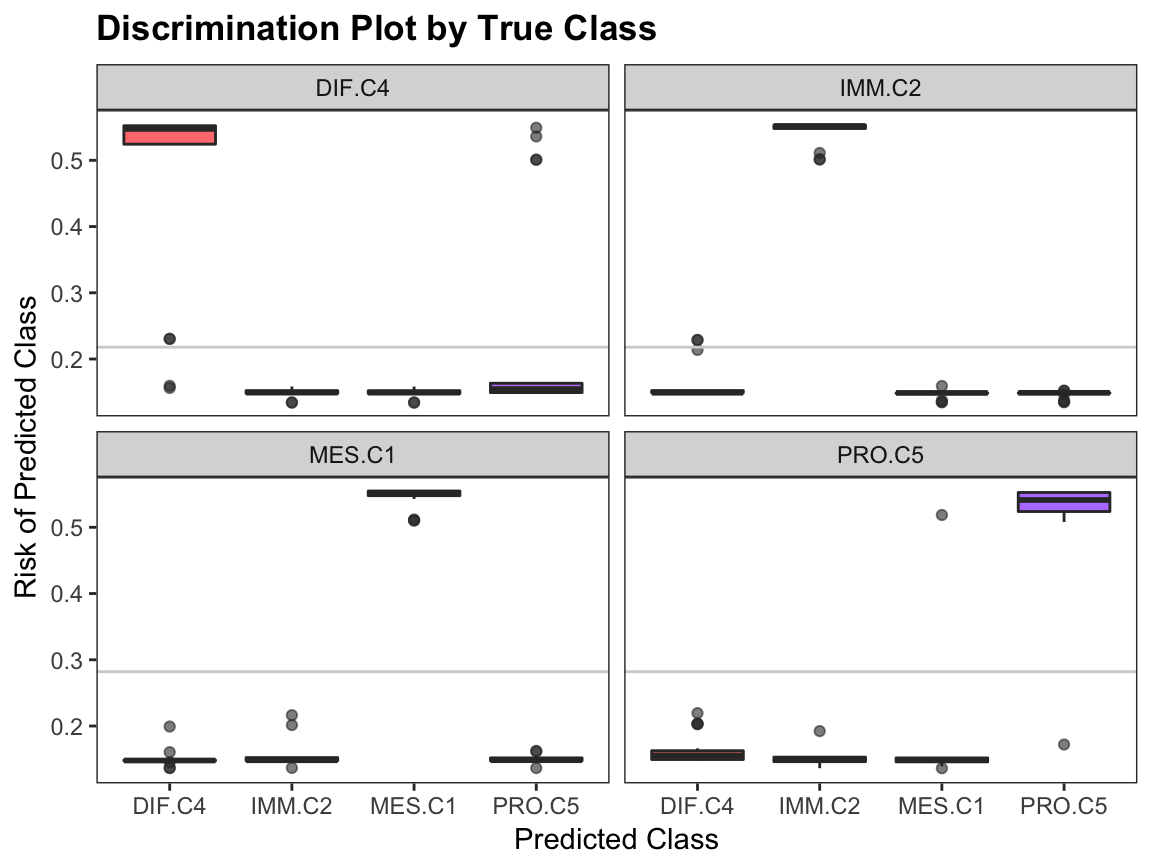
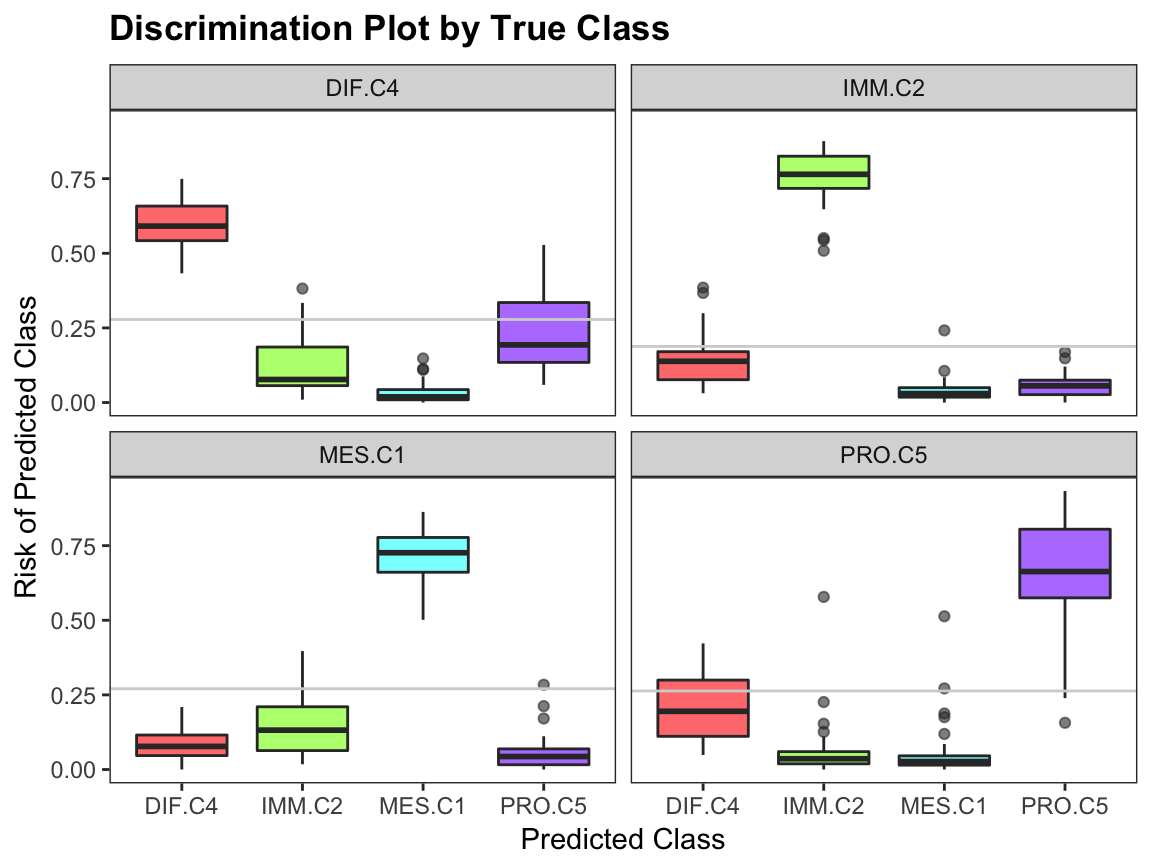
update vignette about prediction attributes

diff --git a/docs/articles/ensemble_classification.html b/docs/articles/ensemble_classification.html
@@ -58,7 +58,7 @@
 </h1>
                         <h4 class="author">Derek Chiu</h4>
             
-            <h4 class="date">2017-05-15</h4>
+            <h4 class="date">2017-05-16</h4>
           </div>
 
     
@@ -99,7 +99,7 @@
 <span class="co">#&gt; DIF.C4 IMM.C2 MES.C1 PRO.C5 </span>
 <span class="co">#&gt;    135    107    109    138</span>
 sl_result &lt;-<span class="st"> </span><span class="kw"><a href="../reference/splendid.html">splendid</a></span>(<span class="dt">data =</span> hgsc, <span class="dt">class =</span> class, <span class="dt">n =</span> <span class="dv">2</span>,
-                      <span class="dt">algorithms =</span> <span class="kw">c</span>(<span class="st">"lda"</span>, <span class="st">"knn"</span>, <span class="st">"svm"</span>), <span class="dt">rfe =</span> <span class="ot">FALSE</span>)</code></pre></div>
+                      <span class="dt">algorithms =</span> <span class="kw">c</span>(<span class="st">"slda"</span>, <span class="st">"knn"</span>, <span class="st">"svm"</span>), <span class="dt">rfe =</span> <span class="ot">FALSE</span>)</code></pre></div>
 <p>The resulting object is a list with the following elements:</p>
 <ul>
 <li>
@@ -118,17 +118,17 @@ sl_result &lt;-<span class="st"> </span><span class="kw"><a href="../reference/s
 <div class="sourceCode"><pre class="sourceCode r"><code class="sourceCode r"><span class="kw">str</span>(sl_result, <span class="dt">max.level =</span> <span class="dv">2</span>)
 <span class="co">#&gt; List of 6</span>
 <span class="co">#&gt;  $ models       :List of 3</span>
-<span class="co">#&gt;   ..$ lda:List of 2</span>
-<span class="co">#&gt;   ..$ knn:List of 2</span>
-<span class="co">#&gt;   ..$ svm:List of 2</span>
+<span class="co">#&gt;   ..$ slda:List of 2</span>
+<span class="co">#&gt;   ..$ knn :List of 2</span>
+<span class="co">#&gt;   ..$ svm :List of 2</span>
 <span class="co">#&gt;  $ preds        :List of 3</span>
-<span class="co">#&gt;   ..$ lda:List of 2</span>
-<span class="co">#&gt;   ..$ knn:List of 2</span>
-<span class="co">#&gt;   ..$ svm:List of 2</span>
+<span class="co">#&gt;   ..$ slda:List of 2</span>
+<span class="co">#&gt;   ..$ knn :List of 2</span>
+<span class="co">#&gt;   ..$ svm :List of 2</span>
 <span class="co">#&gt;  $ evals        :List of 3</span>
-<span class="co">#&gt;   ..$ lda:'data.frame':  24 obs. of  2 variables:</span>
-<span class="co">#&gt;   ..$ knn:'data.frame':  24 obs. of  2 variables:</span>
-<span class="co">#&gt;   ..$ svm:'data.frame':  24 obs. of  2 variables:</span>
+<span class="co">#&gt;   ..$ slda:'data.frame': 24 obs. of  2 variables:</span>
+<span class="co">#&gt;   ..$ knn :'data.frame': 24 obs. of  2 variables:</span>
+<span class="co">#&gt;   ..$ svm :'data.frame': 24 obs. of  2 variables:</span>
 <span class="co">#&gt;  $ bests        : Named chr [1:2] "svm" "svm"</span>
 <span class="co">#&gt;   ..- attr(*, "names")= chr [1:2] "1" "2"</span>
 <span class="co">#&gt;  $ ensemble_algs: chr "svm"</span>
@@ -147,9 +147,9 @@ sl_result &lt;-<span class="st"> </span><span class="kw"><a href="../reference/s
 <ul>
 <li>Linear Discriminant Analysis (<code>"lda"</code>)</li>
 <li>Quadratic Discriminant Analysis (<code>"qda"</code>)</li>
-<li>Shrinkage Linear Discriminant Analysis (<code>"slda"</code>)<sup>3</sup>
+<li>Shrinkage Linear Discriminant Analysis (<code>"slda"</code>)<sup>1</sup>
 </li>
-<li>Shrinkage Diagonal Discriminant Analysis (<code>"sdda"</code>)<sup>3</sup>
+<li>Shrinkage Diagonal Discriminant Analysis (<code>"sdda"</code>)<sup>1</sup>
 </li>
 <li>Random Forests (<code>"rf"</code>)</li>
 <li>Multinomial Classification using neural networks (<code>"multinom_nnet"</code>)</li>
@@ -160,7 +160,8 @@ sl_result &lt;-<span class="st"> </span><span class="kw"><a href="../reference/s
 <li>Adaptive Boosting using Decision Trees (<code>"adaboost"</code>)</li>
 <li>Extreme Gradient Boosting using Decision Trees (<code>"xgboost"</code>)</li>
 <li>Naive Bayes (<code>"nbayes"</code>)</li>
-<li>Multinomial Classification using an L1-penalty (<code>"lasso"</code>), L2-penalty (<code>"ridge"</code>), or no penalty (<code>"multinom_glm"</code>)</li>
+<li>Multinomial Classification using an L1-penalty (<code>"lasso"</code>), L2-penalty (<code>"ridge"</code>), or no penalty (<code>"multinom_glm"</code>)<sup>2</sup>
+</li>
 </ul>
 <p>These algorithms are implemented in <code><a href="../reference/classification.html">classification()</a></code>.</p>
 </div>
@@ -195,6 +196,8 @@ sl_result &lt;-<span class="st"> </span><span class="kw"><a href="../reference/s
 <li>
 <code>qda</code>: The number of variables cannot exceed the number of samples in the smallest class. We use a variance threshold method to select the greatest number of variables allowed by the QDA restriction on the basis of decreasing variance across all samples. This filtering feature selection method does not solve the potential multicollinearity issue that can exist with many correlated variables. To tackle this problem, we add a small amount of noise to each variable.</li>
 <li>
+<code>slda</code> and <code>sdda</code>: These shrinkage discriminant analysis algorithms estimate the regularization parameters analytically without having to solve using resampling methods.</li>
+<li>
 <code>multinom_nnet</code> and <code>nnet</code>: We increase the maximum number of allowable weights to a sufficiently large number to avoid ill-fitted models.</li>
 <li>
 <code>knn</code>: Since K-Nearest Neighbours is a non-parametric method, there <em>is</em> no model object upon which predictions are made, and predicted classes are directly found. To obtain prediction probabilities by class, we use a distance matrix between the training and test set samples.</li>
@@ -207,7 +210,7 @@ sl_result &lt;-<span class="st"> </span><span class="kw"><a href="../reference/s
 <div id="feature-selection" class="section level3">
 <h3 class="hasAnchor">
 <a href="#feature-selection" class="anchor"></a>Feature Selection</h3>
-<p>We use Recursive Feature Elimination (RFE)<sup>1</sup> on <code>lda</code>, <code>qda</code>, <code>rf</code>, and <code>svm</code> to reduce the dimensionality before classification. In <code>svm</code>, we do this before tuning because of the computational complexity. However, we can embed this feature selection within the tuning step for the other three algorithms. Set <code>rfe = TRUE</code> in <code>splendid</code> to use feature selection.</p>
+<p>We use Recursive Feature Elimination (RFE)<sup>3</sup> on <code>lda</code>, <code>qda</code>, <code>rf</code>, and <code>svm</code> to reduce the dimensionality before classification. In <code>svm</code>, we do this before tuning because of the computational complexity. However, we can embed this feature selection within the tuning step for the other three algorithms. Set <code>rfe = TRUE</code> in <code>splendid</code> to use feature selection.</p>
 <p>One limitation of RFE is that an a priori set of feature subset sizes need to be specified, determining the search space for the algorithm. By default, we set the <code>sizes</code> parameter to be every 5 integers from 0 up to one-half of the smallest class size. Recall the class sizes:</p>
 <div class="sourceCode"><pre class="sourceCode r"><code class="sourceCode r"><span class="kw">table</span>(class)
 <span class="co">#&gt; class</span>
@@ -223,18 +226,18 @@ sl_result &lt;-<span class="st"> </span><span class="kw"><a href="../reference/s
 <p>The method for <code>"pam"</code> is an exception: the output from <code><a href="../reference/prediction.html">prediction()</a></code> not only has the predicted class labels, but also the cross-validated threshold value calculated from the training set to use in prediction on the test set, named <code>delta</code>.</p>
 <div class="sourceCode"><pre class="sourceCode r"><code class="sourceCode r"><span class="kw">str</span>(sl_result$preds, <span class="dt">max.level =</span> <span class="dv">2</span>, <span class="dt">list.len =</span> <span class="dv">2</span>)
 <span class="co">#&gt; List of 3</span>
-<span class="co">#&gt;  $ lda:List of 2</span>
-<span class="co">#&gt;   ..$ : Factor w/ 4 levels "DIF.C4","IMM.C2",..: 1 1 2 3 4 1 4 2 1 2 ...</span>
-<span class="co">#&gt;   .. ..- attr(*, "prob")= num [1:189, 1:4] 1.00 1.00 2.11e-307 2.43e-69 1.65e-99 ...</span>
+<span class="co">#&gt;  $ slda:List of 2</span>
+<span class="co">#&gt;   ..$ : Factor w/ 4 levels "DIF.C4","IMM.C2",..: 3 1 3 3 4 2 4 2 4 2 ...</span>
+<span class="co">#&gt;   .. ..- attr(*, "prob")= num [1:189, 1:4] 0.0202 1 0 0 0 ...</span>
 <span class="co">#&gt;   .. .. ..- attr(*, "dimnames")=List of 2</span>
-<span class="co">#&gt;   .. ..- attr(*, "class.thres")= Factor w/ 4 levels "DIF.C4","IMM.C2",..: 1 1 2 3 4 1 4 2 1 2 ...</span>
+<span class="co">#&gt;   .. ..- attr(*, "class.thres")= Factor w/ 4 levels "DIF.C4","IMM.C2",..: 3 1 3 3 4 2 4 2 4 2 ...</span>
 <span class="co">#&gt;   .. ..- attr(*, "class.prop")= num 1</span>
-<span class="co">#&gt;   ..$ : Factor w/ 4 levels "DIF.C4","IMM.C2",..: 2 3 3 1 1 1 2 3 1 2 ...</span>
-<span class="co">#&gt;   .. ..- attr(*, "prob")= num [1:170, 1:4] 0.00 1.10e-310 7.59e-85 1.00 1.00 ...</span>
+<span class="co">#&gt;   ..$ : Factor w/ 4 levels "DIF.C4","IMM.C2",..: 3 4 4 4 1 1 1 1 2 1 ...</span>
+<span class="co">#&gt;   .. ..- attr(*, "prob")= num [1:170, 1:4] 0.000858 0.039292 0 0 0.999683 ...</span>
 <span class="co">#&gt;   .. .. ..- attr(*, "dimnames")=List of 2</span>
-<span class="co">#&gt;   .. ..- attr(*, "class.thres")= Factor w/ 4 levels "DIF.C4","IMM.C2",..: 2 3 3 1 1 1 2 3 1 2 ...</span>
+<span class="co">#&gt;   .. ..- attr(*, "class.thres")= Factor w/ 4 levels "DIF.C4","IMM.C2",..: 3 4 4 4 1 1 1 1 2 1 ...</span>
 <span class="co">#&gt;   .. ..- attr(*, "class.prop")= num 1</span>
-<span class="co">#&gt;  $ knn:List of 2</span>
+<span class="co">#&gt;  $ knn :List of 2</span>
 <span class="co">#&gt;   ..$ : Factor w/ 4 levels "DIF.C4","IMM.C2",..: 4 1 3 3 3 2 4 2 4 2 ...</span>
 <span class="co">#&gt;   .. ..- attr(*, "prob")= num [1:189, 1:4] 0 1 0 0 0 0 0 0 0 0 ...</span>
 <span class="co">#&gt;   .. .. ..- attr(*, "dimnames")=List of 2</span>
@@ -246,7 +249,13 @@ sl_result &lt;-<span class="st"> </span><span class="kw"><a href="../reference/s
 <span class="co">#&gt;   .. ..- attr(*, "class.thres")= Factor w/ 5 levels "DIF.C4","IMM.C2",..: 3 3 4 4 1 1 2 4 1 2 ...</span>
 <span class="co">#&gt;   .. ..- attr(*, "class.prop")= num 0.988</span>
 <span class="co">#&gt;   [list output truncated]</span></code></pre></div>
-<p>Note that each predicted class has an attribute that shows the class probabilities in a matrix. These matrices are useful to compute evaluation measures and generate discriminating graphs that we detail below.</p>
+<div id="attributes" class="section level3">
+<h3 class="hasAnchor">
+<a href="#attributes" class="anchor"></a>Attributes</h3>
+<p>Note that each predicted class has an attribute that shows the class probabilities in a matrix. We ensure that the class probabilities for every sample sum to one by making a small adjustment to one of the classes depending on whether the probability was over or under one. These matrices are useful to compute evaluation measures and generate discriminating graphs that we detail below, and is stored in <code>attr(*, "prob")</code>.</p>
+<p>To obtain better performance under evaluation metrics, we may want to exclude samples which have a maximum class probability below a threshold. For example, we may only compare the true test labels with the corresponding OOB samples where the winning class has a probability at least 50%. Samples below this threshold are labelled as <code>"unclassified"</code>. If the threshold results in all samples being unclassified, then we use the unfiltered, original predicted labels for evaluation. This object is stored in <code>attr(*, "class.thres")</code>.</p>
+<p>The final attribute of a prediction object is stored <code>attr(*, "class.prop")</code>, showing the proportion of classified cases. This value is inversely proportional to the <code>threshold</code> setting.</p>
+</div>
 </div>
 <div id="evaluation" class="section level2">
 <h2 class="hasAnchor">
@@ -414,7 +423,7 @@ class &lt;-<span class="st"> </span><span class="kw">factor</span>(stringr::<spa
 <span class="kw">set.seed</span>(<span class="dv">1</span>)
 training.id &lt;-<span class="st"> </span><span class="kw">sample</span>(<span class="kw">seq_along</span>(class), <span class="dt">replace =</span> <span class="ot">TRUE</span>)
 test.id &lt;-<span class="st"> </span><span class="kw">which</span>(!<span class="kw">seq_along</span>(class) %in%<span class="st"> </span>training.id)
-mod &lt;-<span class="st"> </span><span class="kw"><a href="../reference/classification.html">classification</a></span>(hgsc[training.id, ], class[training.id], <span class="st">"xgboost"</span>)
+mod &lt;-<span class="st"> </span><span class="kw"><a href="../reference/classification.html">classification</a></span>(hgsc[training.id, ], class[training.id], <span class="st">"adaboost"</span>)
 pred &lt;-<span class="st"> </span><span class="kw"><a href="../reference/prediction.html">prediction</a></span>(mod, hgsc, test.id, <span class="dt">class =</span> class)
 evals &lt;-<span class="st"> </span><span class="kw"><a href="../reference/evaluation.html">evaluation</a></span>(class[test.id], pred, <span class="dt">plot =</span> <span class="ot">TRUE</span>)</code></pre></div>
 <p><img src="ensemble_classification_files/figure-html/plots-1.png" width="576"><img src="ensemble_classification_files/figure-html/plots-2.png" width="576"></p>
@@ -423,16 +432,17 @@ evals &lt;-<span class="st"> </span><span class="kw"><a href="../reference/evalu
 <div id="ensemble-construction" class="section level2">
 <h2 class="hasAnchor">
 <a href="#ensemble-construction" class="anchor"></a>Ensemble Construction</h2>
-<p>For each bootstrap replicate training set, we want to find the top performing classifier. We use Rank Aggregation with the Genetic Algorithm to choose the top algorithm by comparing across evaluation metrics<sup>2</sup>. In the case of log loss, we need to first invert its value since it its objective function is minimization. Class-specific measures are not included in the rank aggregation because they are interdependent. For example, a sample with a true class of “A” should not be treated differently depending on whether it was misclassified into “B” or “C”.</p>
+<p>For each bootstrap replicate training set, we want to find the top performing classifier. We use Rank Aggregation with the Genetic Algorithm to choose the top algorithm by comparing across evaluation metrics<sup>4</sup>. In the case of log loss, we need to first invert its value since it its objective function is minimization. Class-specific measures are not included in the rank aggregation because they are interdependent. For example, a sample with a true class of “A” should not be treated differently depending on whether it was misclassified into “B” or “C”.</p>
 <p>After obtaining the list of top classifiers for each bootstrap replicate, we sort them by decreasing frequency and keep the top 3 to use in the ensemble. The <code>ensemble_mods</code> output of <code>splendid</code> is a list of models fit on the full data for the top classifiers.</p>
 </div>
 <div id="references" class="section level2">
 <h2 class="hasAnchor">
 <a href="#references" class="anchor"></a>References</h2>
 <ol style="list-style-type: decimal">
+<li>Ahdesmäki, Miika, and Korbinian Strimmer. “Feature selection in omics prediction problems using cat scores and false nondiscovery rate control.” <em>The Annals of Applied Statistics</em> 4.1 (2010): 503-519.</li>
+<li><a href="https://cran.r-project.org/web/packages/glmnet/vignettes/glmnet_beta.pdf" class="uri">https://cran.r-project.org/web/packages/glmnet/vignettes/glmnet_beta.pdf</a></li>
 <li><a href="https://topepo.github.io/caret/recursive-feature-elimination.html" class="uri">https://topepo.github.io/caret/recursive-feature-elimination.html</a></li>
 <li>Pihur, Vasyl, Susmita Datta, and Somnath Datta. “RankAggreg, an R package for weighted rank aggregation.” <em>BMC bioinformatics</em> 10.1 (2009): 62.</li>
-<li>Ahdesmäki, Miika, and Korbinian Strimmer. “Feature selection in omics prediction problems using cat scores and false nondiscovery rate control.” <em>The Annals of Applied Statistics</em> 4.1 (2010): 503-519.</li>
 </ol>
 </div>
 </div>
